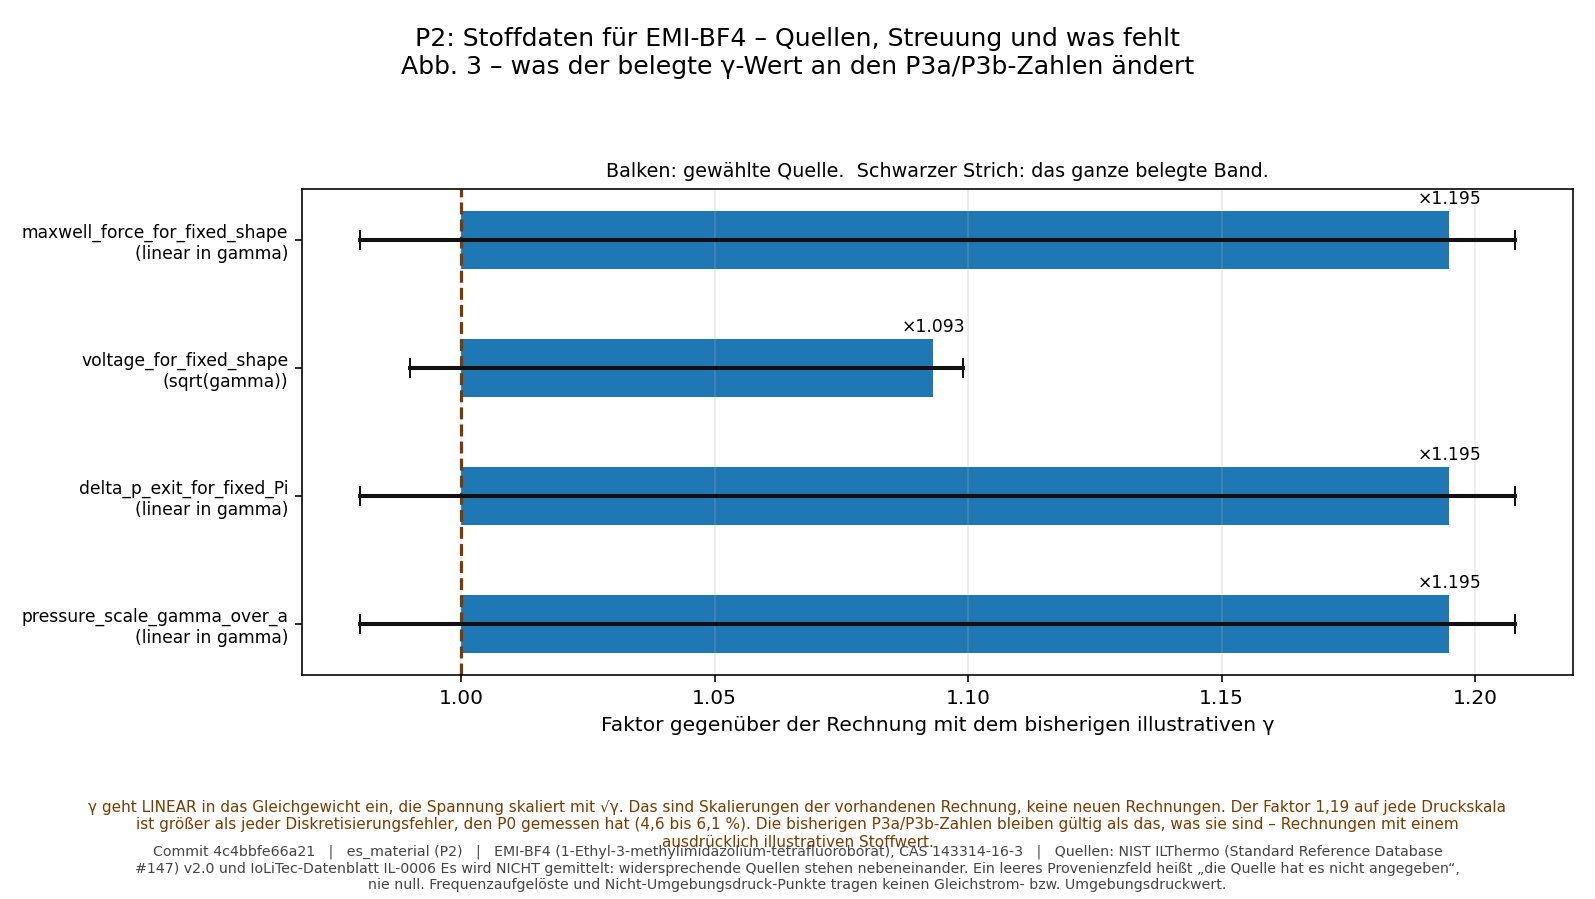
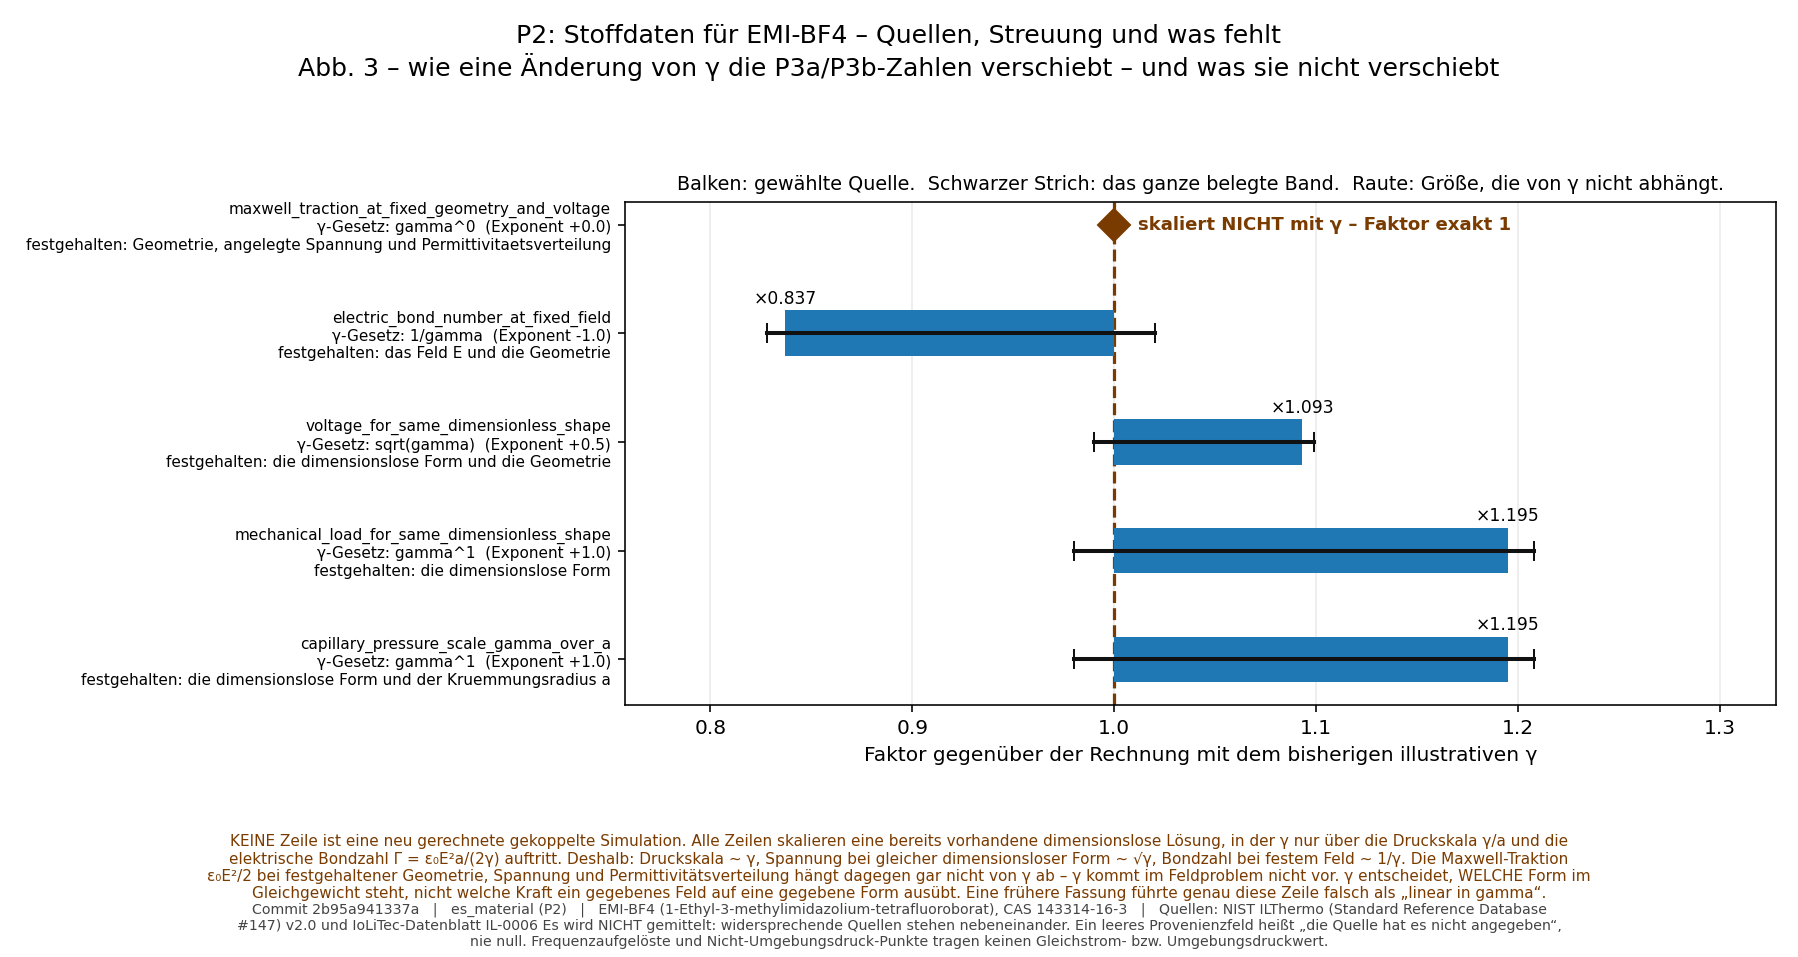
P2-Korrektur-Artefakte, erzeugt aus 2b95a94 bei sauberem Arbeitsbaum
./build/es_material results/2026-08-29_p2_material_data meta.commit=$(git rev-parse HEAD)
  python python/plot_material.py results/2026-08-29_p2_material_data

figures_provenance.txt weist releasable=yes, working_tree_dirty=no und den
Code-Commit aus.

Neu: kinematic_viscosity.csv mit der vollstaendigen Ableitung nu = mu/rho --
beide Eltern, beide Einzelwerte, die geprueften Bedingungen, die fortgepflanzte
Unsicherheit -- und fig4, das dasselbe zeigt und dabei den abgeleiteten Wert
gegen das direkt gemessene Band stellt, von dem er 3,3 % abweicht.

impact.csv traegt jetzt category, law, exponent, recomputed und held_fixed je
Zeile.  Die frueher als "linear in gamma" gefuehrte Maxwell-Traktion steht als
Invariante mit Exponent 0; fig3 zeichnet sie als Raute bei exakt 1 statt als
Balken der Laenge null, weil ein Balken der Laenge null sich als kleiner Effekt
lesen liesse.

summary.csv hat die Spalte value_kind (direct_measurement / derived / none), und
die kinematische Viskositaet steht dort nicht mehr als fehlend, sondern als
abgeleitet -- mit beiden Elternzitaten im Referenzfeld.

Claude-Session: https://claude.ai/code/session_01Hozq9yjzymoyEZTS8x1Eos

diff --git a/results/2026-08-29_p2_material_data/README.md b/results/2026-08-29_p2_material_data/README.md
@@ -32,7 +32,7 @@ Keine Zahl stammt aus einem Suchtreffer-Snippet und keine aus dem Gedaechtnis.
 | Dichte | 1280,9 kg/m³ | 1277,6 … 1290,0 | 1,0 % | 60 |
 | dyn. Viskositaet | 0,03637 Pa·s | 0,0252 … 0,0450 | 54,4 % | 22 |
 | el. Leitfaehigkeit | 1,5584 S/m | 0,91 … 1,63 | 46,2 % | 21 |
-| kin. Viskositaet | **MissingMaterialData** | — | — | 3 |
+| kin. Viskositaet | **28,3941 mm²/s** (`derived`) | 27,1 … 27,5 (direkt gemessen) | ± 2,09 % (fortgepflanzt) | 2 Eltern |
 | rel. Permittivitaet | **MissingMaterialData** | — | — | 4 |
 
 Gewaehlt wird nach einer vorab festgelegten, mechanisch angewandten Regel:
@@ -68,9 +68,75 @@ Der bisherige Datensatz `emibf4_illustrative()` bleibt unveraendert und bleibt
   18 GHz, wobei eps_r von 11,7 auf 7,7 faellt -- eine Dispersionsmessung und
   kein Gleichstromwert. Fuer P3b ist das folgenlos (die Fluessigkeit ist dort
   ein idealer Leiter), fuer jedes Modell mit endlicher Leitfaehigkeit nicht.
-* **kinematische Viskositaet**: keine Quelle nennt Methode, Reinheit und
-  Wassergehalt zugleich. Sie wird NICHT aus mu und rho zusammengerechnet -- es
-  ist nicht festgehalten, welche Dichte der jeweilige Autor benutzt hat.
+* **kinematische Viskositaet als DIREKTE Messung**: keine der drei Quellen
+  nennt Methode, Reinheit und Wassergehalt zugleich, also waehlt die Regel keine
+  aus. Ein Wert wird aber ABGELEITET -- siehe unten.
+
+## nu = mu/rho -- abgeleitet, nicht gemessen
+
+nu ist keine unabhaengige Stoffgroesse. Sie gar nicht zu bilden waere zu streng;
+sie aus irgendeinem mu und irgendeinem rho zu bilden waere schlimmer -- der
+Quotient waere die Viskositaet einer Probe geteilt durch die Dichte einer
+ANDEREN. Die Ableitung ist deshalb genau dann erlaubt, wenn beide Elternwerte
+nachweislich dieselbe Fluessigkeit im selben Zustand beschreiben. Die vier
+Bedingungen stehen in `include/es/material_data.hpp` und werden einzeln
+geprueft; ist eine verletzt, wird kein Wert geliefert, sondern die Bedingung
+genannt.
+
+Bei 298,15 K sind beide Eltern sogar **dieselbe Publikation und dieselbe Probe**
+(Miranda & Santos 2025, *Fluid Phase Equilib.* 597, 114458; 99 mass %,
+0,0100 water mass %, dried by vacuum heating):
+
+| | Wert | Methode |
+|---|---|---|
+| mu | (36,370 ± 0,760) mPa·s | Concentric cylinders viscometry |
+| rho | (1280,9 ± 1,1) kg/m³ | Vibrating tube method |
+| **nu** | **(28,3941 ± 0,5938) mm²/s** | **abgeleitet, nicht gemessen** |
+
+Die Unsicherheit ist **fortgepflanzt** (quadratische Summe der relativen
+Anteile, 2,09 %, dominiert von mu); die konservativere lineare Addition
+(± 0,6177 mm²/s) wird mitgeliefert, weil mu und rho aus demselben Messgang
+stammen und damit nicht streng unabhaengig sind.
+
+Der Status ist `derived`, nicht `measured`. In `summary.csv` steht dafuer die
+Spalte `value_kind`, im Referenzfeld stehen **beide** Eltern, und
+`relative_spread` ist dort die fortgepflanzte Unsicherheit und keine
+Literaturstreuung. Vollstaendiger Nachweis: `kinematic_viscosity.csv`.
+
+**Quervergleich.** Die drei direkt gemessenen Quellen (Kapillarviskosimetrie,
+ohne Reinheits- und Wasserangabe) geben 27,1 … 27,5 mm²/s. Der abgeleitete Wert
+liegt **3,3 % darueber**. Das wird berichtet und nicht angepasst: die Abweichung
+ist klein gegen die Literaturstreuung von mu (54 %) und damit durch
+Probenunterschiede erklaerbar. Die direkt gemessenen Werte gehen in keine
+Rechnung ein.
+
+## Was eine Aenderung von gamma tut -- und was nicht
+
+`impact.csv` fuehrte frueher eine Zeile
+`maxwell_force_for_fixed_shape (linear in gamma)`. **Das war falsch.** Bei
+festgehaltener Geometrie, festgehaltener angelegter Spannung und festgehaltener
+Permittivitaetsverteilung folgt das Feld aus der Laplace- bzw.
+Poisson-Gleichung, in der gamma nirgends vorkommt; die Maxwell-Traktion
+eps0·E²/2 ist dann ein Funktional allein dieses Feldes und **invariant** unter
+einer Aenderung von gamma.
+
+gamma entscheidet, WELCHE Form im Gleichgewicht steht -- nicht, welche Kraft ein
+gegebenes Feld auf eine gegebene Form ausuebt.
+
+| Groesse | festgehalten | Gesetz | Exponent |
+|---|---|---|---|
+| Kapillardruckskala gamma/a | dimensionslose Form, a | gamma¹ | +1 |
+| mechanische Last fuer dieselbe dimensionslose Form | dimensionslose Form | gamma¹ | +1 |
+| Spannung fuer dieselbe dimensionslose Form | dimensionslose Form, Geometrie | √gamma | +½ |
+| elektrische Bondzahl bei festem **Feld** | E, Geometrie | 1/gamma | −1 |
+| **Maxwell-Traktion bei festem Geometrie/U/eps** | Geometrie, U, eps-Verteilung | gamma⁰ | **0** |
+
+Die Zeile wird nicht geloescht, sondern als Invariante mit Exponent 0 gefuehrt,
+damit die Korrektur sichtbar bleibt. Jede Zeile traegt `recomputed=no`: **keine**
+ist eine neu gerechnete gekoppelte Simulation, sondern die Umskalierung einer
+bereits gerechneten dimensionslosen Loesung. Die Tabelle steht als
+`es::gamma_scaling_rows()` in `src/material_data.cpp` und wird in
+`tests/test_material_data.cpp`, Abschnitt 5b, geprueft.
 
 ## Widersprueche, nebeneinander stehen gelassen
 
@@ -86,10 +152,13 @@ Der bisherige Datensatz `emibf4_illustrative()` bleibt unveraendert und bleibt
 |---|---|
 | `fig1_properties_vs_T.png` | jeder gemessene Punkt jeder Quelle gegen die Temperatur; gewaehlte Quelle hervorgehoben, Nicht-Umgebungsdruck- und frequenzaufgeloeste Punkte getrennt markiert |
 | `fig2_scatter.png` | Literaturstreuung im Fenster 298,15 K ± 2 K, Quelle fuer Quelle, mit der Provenienz, die jede angibt |
-| `fig3_impact.png` | was der belegte gamma-Wert an den P3a/P3b-Zahlen aendert |
+| `fig3_impact.png` | wie eine Aenderung von gamma die P3a/P3b-Zahlen verschiebt -- und, als eigene Zeile, was sie nachweislich NICHT verschiebt |
+| `fig4_kinematic_viscosity.png` | nu = mu/rho: der abgeleitete Wert mit beiden Eltern, der fortgepflanzten Unsicherheit und dem direkt gemessenen Band |
 
 ## Dateien
 
+`kinematic_viscosity.csv` -- die Ableitung nu = mu/rho mit beiden Eltern, beiden
+Einzelwerten, den geprueften Bedingungen und der fortgepflanzten Unsicherheit.
 `sources.csv` -- jede Quelle mit Provenienz. `points.csv` -- jeder einzelne
 Messpunkt mit Temperatur, Druck und Frequenz. `summary.csv` -- was eine Rechnung
 benutzen darf und wie unsicher es ist. `impact.csv` -- die Skalierungen.
